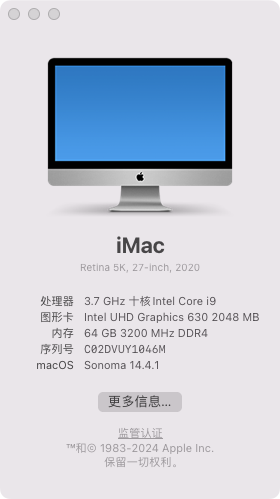
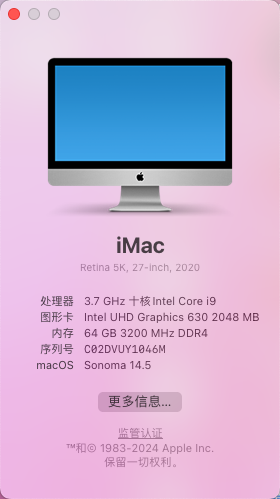
更新 OpenCore 1.0.1

diff --git a/README.md b/README.md
@@ -35,7 +35,8 @@
 
 | 版本(正式版) | 注意事项                                                     |
 | ------------ | ------------------------------------------------------------ |
-| 14.4.1       | 使用最新版OCLP 最新版 EFI                                    |
+| 14.5         | 使用最新版OCLP                                               |
+| 14.4.1       | 使用最新版OCLP                                               |
 | **14.4**     | **使用最新版OCLP 最新版 EFI** 如果已经遇到wifi打不开 替换EFI 最新OCLP打补丁 |
 | 14.3.1       | 需要OCLP打补丁                                               |
 | 14.3         | 需要OCLP打补丁                                               |
@@ -59,7 +60,7 @@
 
 2 下载项目中的EFI 替换本机, 清空一下 nvram 重启后测试是否功能正常. **不正常的话换回原本EFI 停止升级**.
 
-3  正常的话, 设置- 全量更新到 Sonoma 正式版, ( **目前最新EFI 14.3, 14.3.1, 14.4, 14.4.1正式版均正常使用** ) 测试版系统未经过测试 请勿尝试.
+3  正常的话, 设置- 全量更新到 Sonoma 正式版, ( **目前最新EFI 14.3, 14.3.1, 14.4, 14.4.1, 14.5正式版均正常使用** ) 测试版系统未经过测试 请勿尝试.
 
 4 按照教程中使用 `OpenCore Legacy Patcher` 工具直接打好补丁重启就可以正常使用了 **如果遇到卡开机的可以按教程卸载后重复打补丁**
 
